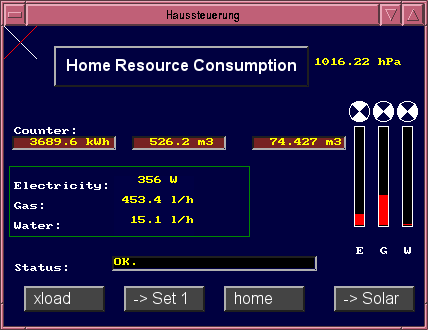
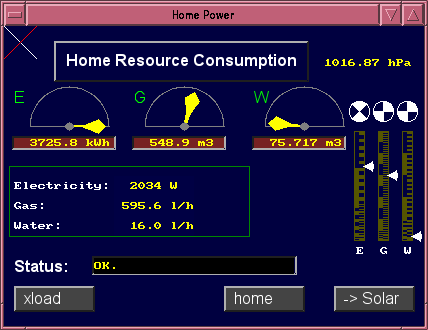
Little Bugfix: METER, TEXTLABEL

diff --git a/src/hyperdash.c b/src/hyperdash.c
@@ -460,7 +460,7 @@ void u_textlabel(ELEMENT *el,WINDOW *win, char *message) {
   }
   if(found>=0 && found<10 && el->data[found].pointer) {
     boxColor(win->display,el->x,el->y,(el->x)+(el->w)-1,(el->y)+(el->h)-1,el->bgc);
-    stringColor(win->display,el->x,el->y,el->data[found].pointer,el->labelcolor[found]);
+    put_font_text(win,el->font,el->fontsize,el->data[found].pointer,el->x,el->y,el->labelcolor[found],el->h);
   }
 }
 
@@ -499,6 +499,9 @@ void u_meter(ELEMENT *el,WINDOW *win, char *message) {
   int i;
   double v=myatof(message);
   double phi;
+  int lim=(int)(el->amax-el->amin);
+  int flag=1;
+  if(lim<0) {lim=-lim;flag=-1;}
 
 /* SDL cannot draw arcs and segments of a circle, however this can be
 implemented using polygons....
@@ -533,22 +536,21 @@ implemented using polygons....
   filledPolygonColor(win->display,&vx[0],&vy[0],7,el->bgc);
 
   phi=(v-el->min)/(el->max-el->min);
+  if(phi<0) phi=0;
+  if(phi>1) phi=1;
   phi=phi*PI/180*(el->amax-el->amin)+PI/180*el->amin;
 
   
   vx[0]=el->x+el->w/2;
   vy[0]=el->y+el->h/2;
-  int lim=(int)(el->amax-el->amin);
-  int flag=1;
-  if(lim<0) {lim=-lim;flag=-1;}
+ // printf("flag=%d, lim=%d\n",flag,lim);
   for(i=0;i<lim;i++) {
     if(flag>0) {
       vx[i+1]=el->w/2*cos(PI*((double)i+el->amin)/180);
-      vy[i+1]=el->h/2*sin(PI*((double)i+el->amin)/180);
+      vy[i+1]=-el->h/2*sin(PI*((double)i+el->amin)/180);
     } else {
       vx[i+1]=el->w/2*cos(PI*((double)i+el->amax)/180);
       vy[i+1]=-el->h/2*sin(PI*((double)i+el->amax)/180);
-    
     }
     /* translate*/
     vx[i+1]+=el->x+el->w/2;
@@ -624,9 +626,11 @@ void u_thmeter(ELEMENT *el,WINDOW *win, char *message) {
   double vv;
   char buf[32];
   char *p,*q;
+  double scale=1;
+  while(fabs(scale*el->min)<1 && fabs(scale*el->min)<1 && scale<1e6) scale*=10; 
   for(i=x;i<x+w;i++) {
     vv=(el->max-el->min)*(i-x)/(double)w+el->min;
-    sprintf(buf,"%g",vv); 
+    sprintf(buf,"%g",vv*scale); 
     q=p=buf;
     while(*p) {
       if(isdigit(*p)) *q++=*p;
@@ -644,7 +648,6 @@ void u_thmeter(ELEMENT *el,WINDOW *win, char *message) {
     else 
       lineColor(win->display,i,el->y+el->h/4,i,el->y+el->h/2,el->bgc);
   }
-  
   rectangleColor(win->display,x,y,x+w,y+h/2,el->agc);
   if(el->min<0 && el->max>0) lineColor(win->display,x+x0,y,x+x0,y+h/2,el->fgc);
   if(!isnan(v)) {
@@ -699,15 +702,17 @@ void u_tvmeter(ELEMENT *el,WINDOW *win, char *message) {
   double vv;
   char buf[32];
   char *p,*q;
+  double scale=1;
+  while(fabs(scale*el->min)<1 && fabs(scale*el->min)<1 && scale<1e6) scale*=10; 
   for(i=y;i<y+h;i++) {
     vv=(el->max-el->min)*(y+h-i)/(double)h+el->min;
-sprintf(buf,"%g",vv); 
-q=p=buf;
-while(*p) {
-  if(isdigit(*p)) *q++=*p;
-  p++;
-}
-*q=0;
+    sprintf(buf,"%g",vv*scale);
+    q=p=buf;
+    while(*p) {
+      if(isdigit(*p)) *q++=*p;
+      p++;
+    }
+    *q=0;
 // printf("%03d: %s\n",i,buf);
     f=(buf[0])&1;
     if(f)
